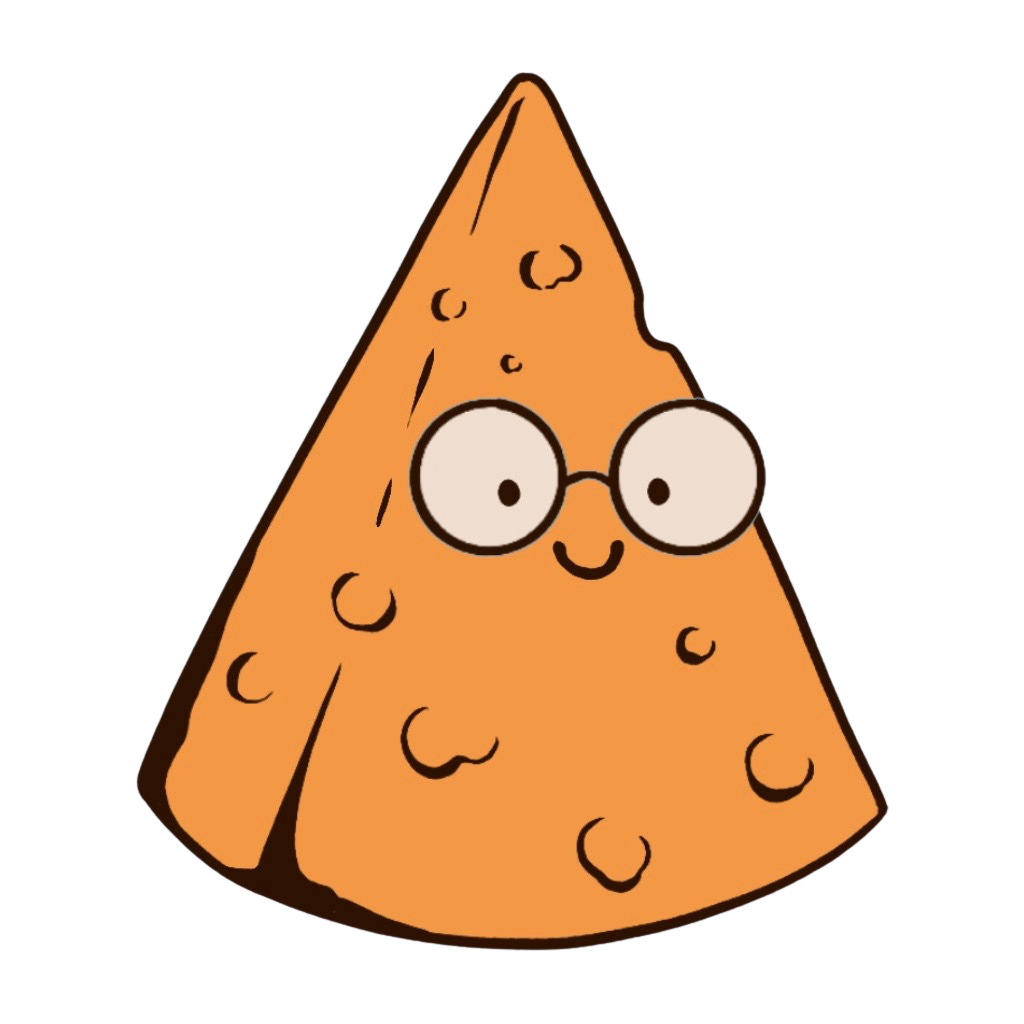
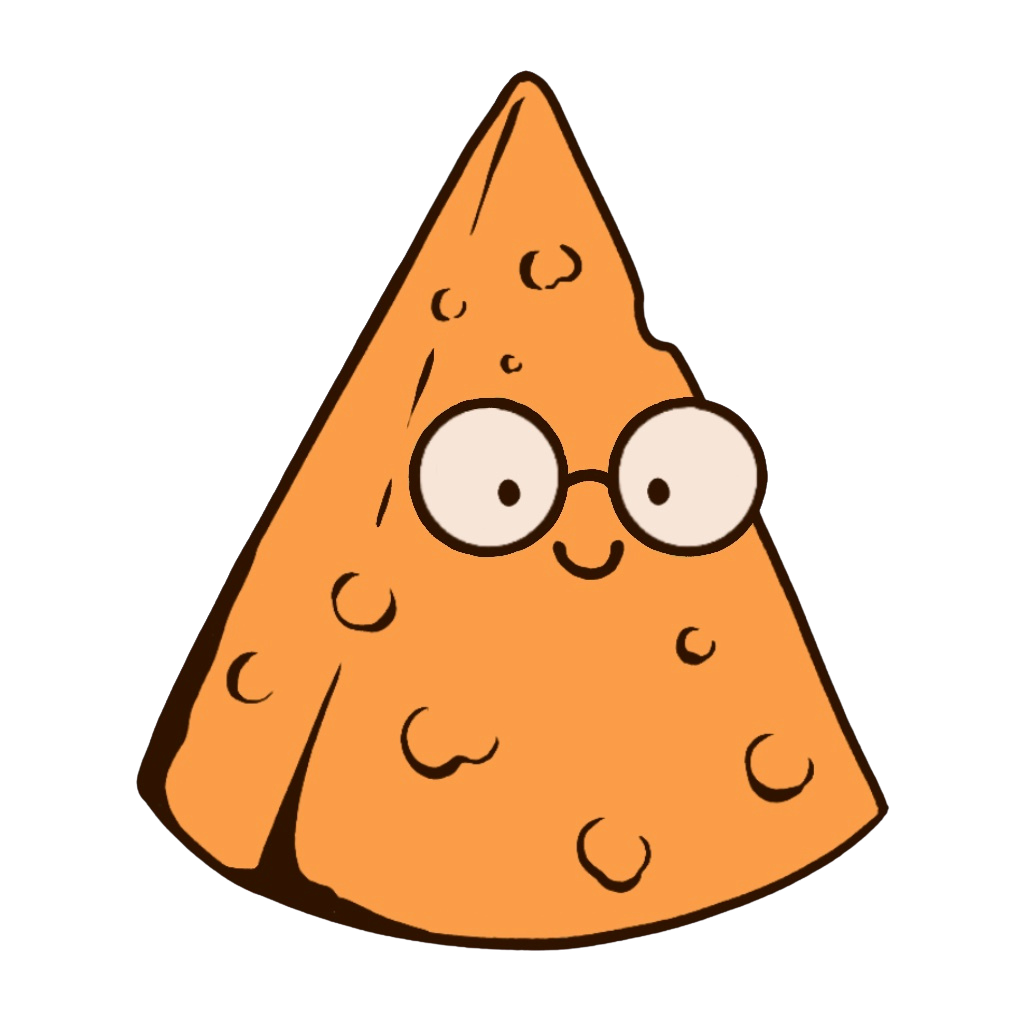
Update revised By the Whey artwork

diff --git a/docs/delete-account/index.html b/docs/delete-account/index.html
@@ -1,5 +1,5 @@
-<!doctype html><html lang="en"><head><meta charset="utf-8"><meta name="viewport" content="width=device-width,initial-scale=1"><meta name="description" content="Instructions for deleting a By the Whey account and associated data."><title>Delete Account — By the Whey</title><link rel="icon" href="../assets/by-the-whey-icon.png"><link rel="stylesheet" href="../assets/styles.css?v=20260819-brand-refresh"><script src="../assets/site.js" defer></script></head><body>
-<header class="site-header"><div class="shell nav"><a class="wordmark" href="/"><img class="wordmark-mark" src="../assets/by-the-whey-character.png" alt=""><span><strong>By the Whey</strong><small>Built by The Curd Nerd</small></span></a><button class="menu-toggle" type="button" aria-expanded="false" data-menu-toggle>Menu</button><nav class="nav-links" data-menu><a href="/privacy/">Privacy</a><a href="/terms/">Terms</a><a href="/guidelines/">Guidelines</a><a href="/support/">Support</a></nav></div></header>
+<!doctype html><html lang="en"><head><meta charset="utf-8"><meta name="viewport" content="width=device-width,initial-scale=1"><meta name="description" content="Instructions for deleting a By the Whey account and associated data."><title>Delete Account — By the Whey</title><link rel="icon" href="../assets/by-the-whey-icon.png?v=20260819-art-r2"><link rel="stylesheet" href="../assets/styles.css?v=20260819-brand-refresh"><script src="../assets/site.js" defer></script></head><body>
+<header class="site-header"><div class="shell nav"><a class="wordmark" href="/"><img class="wordmark-mark" src="../assets/by-the-whey-character.png?v=20260819-art-r2" alt=""><span><strong>By the Whey</strong><small>Built by The Curd Nerd</small></span></a><button class="menu-toggle" type="button" aria-expanded="false" data-menu-toggle>Menu</button><nav class="nav-links" data-menu><a href="/privacy/">Privacy</a><a href="/terms/">Terms</a><a href="/guidelines/">Guidelines</a><a href="/support/">Support</a></nav></div></header>
 <main><section class="legal-hero"><div class="shell"><p class="eyebrow">Account control</p><h1>Delete your account</h1><p class="updated">Permanent deletion of your By the Whey account and associated data</p></div></section><div class="shell legal-layout"><aside class="legal-aside"><strong>This action is permanent.</strong><p>Download or copy anything you want to keep before requesting deletion.</p></aside><article class="legal-content">
 <h2>Delete inside the app</h2><p>The fastest way to delete your account is inside By the Whey:</p><ol><li>Open <strong>Profile</strong>.</li><li>Choose <strong>Safety &amp; Legal</strong>.</li><li>Open the <strong>Safety</strong> tab.</li><li>Select <strong>Delete my account</strong> and confirm both prompts.</li></ol><p>Deletion begins immediately. If you used Sign in with Apple, the app also asks Apple to revoke its authorization.</p>
 <h2>If you cannot access the app</h2><div class="contact-card"><p>Email <a href="mailto:support@thecurdnerd.com?subject=By%20the%20Whey%20account%20deletion">support@thecurdnerd.com</a> from the email address connected to your account. Use the subject “By the Whey account deletion.” We will verify account ownership before deletion.</p></div>

diff --git a/docs/privacy/index.html b/docs/privacy/index.html
@@ -1,5 +1,5 @@
-<!doctype html><html lang="en"><head><meta charset="utf-8"><meta name="viewport" content="width=device-width,initial-scale=1"><meta name="description" content="Privacy Policy for the By the Whey app."><title>Privacy Policy — By the Whey</title><link rel="icon" href="../assets/by-the-whey-icon.png"><link rel="stylesheet" href="../assets/styles.css?v=20260819-brand-refresh"><script src="../assets/site.js" defer></script></head><body>
-<header class="site-header"><div class="shell nav"><a class="wordmark" href="/"><img class="wordmark-mark" src="../assets/by-the-whey-character.png" alt=""><span><strong>By the Whey</strong><small>Built by The Curd Nerd</small></span></a><button class="menu-toggle" type="button" aria-expanded="false" data-menu-toggle>Menu</button><nav class="nav-links" data-menu><a aria-current="page" href="/privacy/">Privacy</a><a href="/terms/">Terms</a><a href="/guidelines/">Guidelines</a><a href="/support/">Support</a></nav></div></header>
+<!doctype html><html lang="en"><head><meta charset="utf-8"><meta name="viewport" content="width=device-width,initial-scale=1"><meta name="description" content="Privacy Policy for the By the Whey app."><title>Privacy Policy — By the Whey</title><link rel="icon" href="../assets/by-the-whey-icon.png?v=20260819-art-r2"><link rel="stylesheet" href="../assets/styles.css?v=20260819-brand-refresh"><script src="../assets/site.js" defer></script></head><body>
+<header class="site-header"><div class="shell nav"><a class="wordmark" href="/"><img class="wordmark-mark" src="../assets/by-the-whey-character.png?v=20260819-art-r2" alt=""><span><strong>By the Whey</strong><small>Built by The Curd Nerd</small></span></a><button class="menu-toggle" type="button" aria-expanded="false" data-menu-toggle>Menu</button><nav class="nav-links" data-menu><a aria-current="page" href="/privacy/">Privacy</a><a href="/terms/">Terms</a><a href="/guidelines/">Guidelines</a><a href="/support/">Support</a></nav></div></header>
 <main><section class="legal-hero"><div class="shell"><p class="eyebrow">Safety &amp; legal</p><h1>Privacy Policy</h1><p class="updated">Effective August 9, 2026</p></div></section><div class="shell legal-layout"><aside class="legal-aside"><strong>Your privacy matters.</strong><p>This policy explains what By the Whey collects and how you can control it.</p></aside><article class="legal-content">
 <h2>Information we collect</h2><p>We collect account details you provide, such as your name, email address, handle, bio, location, and profile image. We also store content and activity you choose to create, including cheese tastings, ratings, notes, tasting locations, photos, follows, likes, comments, saved cheeses, reports, and blocks.</p>
 <h2>Authentication information</h2><p>You may sign in with email, Apple, or Google. Authentication providers may give us an account identifier, verified email address, and name according to the permissions you approve. Apple may provide your name only during the first authorization.</p>

diff --git a/docs/support/index.html b/docs/support/index.html
@@ -1,5 +1,5 @@
-<!doctype html><html lang="en"><head><meta charset="utf-8"><meta name="viewport" content="width=device-width,initial-scale=1"><meta name="description" content="Support for the By the Whey app."><title>Support — By the Whey</title><link rel="icon" href="../assets/by-the-whey-icon.png"><link rel="stylesheet" href="../assets/styles.css?v=20260819-brand-refresh"><script src="../assets/site.js" defer></script></head><body>
-<header class="site-header"><div class="shell nav"><a class="wordmark" href="/"><img class="wordmark-mark" src="../assets/by-the-whey-character.png" alt=""><span><strong>By the Whey</strong><small>Built by The Curd Nerd</small></span></a><button class="menu-toggle" type="button" aria-expanded="false" data-menu-toggle>Menu</button><nav class="nav-links" data-menu><a href="/privacy/">Privacy</a><a href="/terms/">Terms</a><a href="/guidelines/">Guidelines</a><a aria-current="page" href="/support/">Support</a></nav></div></header>
+<!doctype html><html lang="en"><head><meta charset="utf-8"><meta name="viewport" content="width=device-width,initial-scale=1"><meta name="description" content="Support for the By the Whey app."><title>Support — By the Whey</title><link rel="icon" href="../assets/by-the-whey-icon.png?v=20260819-art-r2"><link rel="stylesheet" href="../assets/styles.css?v=20260819-brand-refresh"><script src="../assets/site.js" defer></script></head><body>
+<header class="site-header"><div class="shell nav"><a class="wordmark" href="/"><img class="wordmark-mark" src="../assets/by-the-whey-character.png?v=20260819-art-r2" alt=""><span><strong>By the Whey</strong><small>Built by The Curd Nerd</small></span></a><button class="menu-toggle" type="button" aria-expanded="false" data-menu-toggle>Menu</button><nav class="nav-links" data-menu><a href="/privacy/">Privacy</a><a href="/terms/">Terms</a><a href="/guidelines/">Guidelines</a><a aria-current="page" href="/support/">Support</a></nav></div></header>
 <main><section class="legal-hero"><div class="shell"><p class="eyebrow">We can help</p><h1>Support</h1><p class="updated">Support for By the Whey beta testers</p></div></section><div class="shell legal-layout"><aside class="legal-aside"><strong>Tell us what happened.</strong><p>Your device, app version, and a screenshot can help us solve problems faster.</p></aside><article class="legal-content">
 <h2>Contact support</h2><div class="contact-card"><p>Email <a href="mailto:support@thecurdnerd.com?subject=By%20the%20Whey%20support">support@thecurdnerd.com</a>. Please include what you were doing, your device type, app version, and any error message.</p></div>
 <h2>Account access</h2><p>Use “Forgot password?” on the sign-in screen for an email account. Apple and Google accounts should use the matching sign-in option originally used to create the account.</p>

diff --git a/docs/terms/index.html b/docs/terms/index.html
@@ -1,5 +1,5 @@
-<!doctype html><html lang="en"><head><meta charset="utf-8"><meta name="viewport" content="width=device-width,initial-scale=1"><meta name="description" content="Terms of Use for the By the Whey app."><title>Terms of Use — By the Whey</title><link rel="icon" href="../assets/by-the-whey-icon.png"><link rel="stylesheet" href="../assets/styles.css?v=20260819-brand-refresh"><script src="../assets/site.js" defer></script></head><body>
-<header class="site-header"><div class="shell nav"><a class="wordmark" href="/"><img class="wordmark-mark" src="../assets/by-the-whey-character.png" alt=""><span><strong>By the Whey</strong><small>Built by The Curd Nerd</small></span></a><button class="menu-toggle" type="button" aria-expanded="false" data-menu-toggle>Menu</button><nav class="nav-links" data-menu><a href="/privacy/">Privacy</a><a aria-current="page" href="/terms/">Terms</a><a href="/guidelines/">Guidelines</a><a href="/support/">Support</a></nav></div></header>
+<!doctype html><html lang="en"><head><meta charset="utf-8"><meta name="viewport" content="width=device-width,initial-scale=1"><meta name="description" content="Terms of Use for the By the Whey app."><title>Terms of Use — By the Whey</title><link rel="icon" href="../assets/by-the-whey-icon.png?v=20260819-art-r2"><link rel="stylesheet" href="../assets/styles.css?v=20260819-brand-refresh"><script src="../assets/site.js" defer></script></head><body>
+<header class="site-header"><div class="shell nav"><a class="wordmark" href="/"><img class="wordmark-mark" src="../assets/by-the-whey-character.png?v=20260819-art-r2" alt=""><span><strong>By the Whey</strong><small>Built by The Curd Nerd</small></span></a><button class="menu-toggle" type="button" aria-expanded="false" data-menu-toggle>Menu</button><nav class="nav-links" data-menu><a href="/privacy/">Privacy</a><a aria-current="page" href="/terms/">Terms</a><a href="/guidelines/">Guidelines</a><a href="/support/">Support</a></nav></div></header>
 <main><section class="legal-hero"><div class="shell"><p class="eyebrow">Safety &amp; legal</p><h1>Terms of Use</h1><p class="updated">Effective August 9, 2026</p></div></section><div class="shell legal-layout"><aside class="legal-aside"><strong>The short version.</strong><p>Enjoy cheese, respect the community, and only share content you have the right to use.</p></aside><article class="legal-content">
 <h2>Acceptance</h2><p>By creating an account or using By the Whey, you agree to these Terms of Use and our <a href="/privacy/">Privacy Policy</a>. If you do not agree, do not use the service.</p>
 <h2>Using the service</h2><p>You must use the service lawfully, provide accurate account information, and protect access to your account. You are responsible for activity performed through your account.</p>

diff --git a/docs/guidelines/index.html b/docs/guidelines/index.html
@@ -1,5 +1,5 @@
-<!doctype html><html lang="en"><head><meta charset="utf-8"><meta name="viewport" content="width=device-width,initial-scale=1"><meta name="description" content="Community Guidelines for By the Whey."><title>Community Guidelines — By the Whey</title><link rel="icon" href="../assets/by-the-whey-icon.png"><link rel="stylesheet" href="../assets/styles.css?v=20260819-brand-refresh"><script src="../assets/site.js" defer></script></head><body>
-<header class="site-header"><div class="shell nav"><a class="wordmark" href="/"><img class="wordmark-mark" src="../assets/by-the-whey-character.png" alt=""><span><strong>By the Whey</strong><small>Built by The Curd Nerd</small></span></a><button class="menu-toggle" type="button" aria-expanded="false" data-menu-toggle>Menu</button><nav class="nav-links" data-menu><a href="/privacy/">Privacy</a><a href="/terms/">Terms</a><a aria-current="page" href="/guidelines/">Guidelines</a><a href="/support/">Support</a></nav></div></header>
+<!doctype html><html lang="en"><head><meta charset="utf-8"><meta name="viewport" content="width=device-width,initial-scale=1"><meta name="description" content="Community Guidelines for By the Whey."><title>Community Guidelines — By the Whey</title><link rel="icon" href="../assets/by-the-whey-icon.png?v=20260819-art-r2"><link rel="stylesheet" href="../assets/styles.css?v=20260819-brand-refresh"><script src="../assets/site.js" defer></script></head><body>
+<header class="site-header"><div class="shell nav"><a class="wordmark" href="/"><img class="wordmark-mark" src="../assets/by-the-whey-character.png?v=20260819-art-r2" alt=""><span><strong>By the Whey</strong><small>Built by The Curd Nerd</small></span></a><button class="menu-toggle" type="button" aria-expanded="false" data-menu-toggle>Menu</button><nav class="nav-links" data-menu><a href="/privacy/">Privacy</a><a href="/terms/">Terms</a><a aria-current="page" href="/guidelines/">Guidelines</a><a href="/support/">Support</a></nav></div></header>
 <main><section class="legal-hero"><div class="shell"><p class="eyebrow">The cheese table</p><h1>Community Guidelines</h1><p class="updated">Effective August 9, 2026</p></div></section><div class="shell legal-layout"><aside class="legal-aside"><strong>Make room at the table.</strong><p>Curiosity, generosity, and thoughtful disagreement make this community better.</p></aside><article class="legal-content">
 <h2>Be thoughtful</h2><p>Share useful cheese experiences and disagree without harassment, threats, personal attacks, stalking, or coordinated abuse.</p>
 <h2>Keep it relevant</h2><p>Posts should relate to cheese, tasting, producers, pairings, shops, events, education, or the cheese community. Repetitive promotion and spam are not allowed.</p>

diff --git a/docs/index.html b/docs/index.html
@@ -9,9 +9,9 @@
   <meta property="og:description" content="Taste, remember, and share exceptional cheese with people who get it.">
   <meta property="og:type" content="website">
   <meta property="og:url" content="https://bythe-whey.com/">
-  <meta property="og:image" content="https://bythe-whey.com/assets/by-the-whey-icon.png">
+  <meta property="og:image" content="https://bythe-whey.com/assets/by-the-whey-icon.png?v=20260819-art-r2">
   <title>By the Whey — A cheese journal and community</title>
-  <link rel="icon" href="assets/by-the-whey-icon.png">
+  <link rel="icon" href="assets/by-the-whey-icon.png?v=20260819-art-r2">
   <link rel="stylesheet" href="assets/styles.css?v=20260819-brand-refresh">
   <script src="assets/site.js" defer></script>
 </head>
@@ -19,7 +19,7 @@
   <header class="site-header">
     <div class="shell nav">
       <a class="wordmark" href="/" aria-label="By the Whey home">
-        <img class="wordmark-mark" src="assets/by-the-whey-character.png" alt="">
+        <img class="wordmark-mark" src="assets/by-the-whey-character.png?v=20260819-art-r2" alt="">
         <span><strong>By the Whey</strong><small>Built by The Curd Nerd</small></span>
       </a>
       <button class="menu-toggle" type="button" aria-expanded="false" data-menu-toggle>Menu</button>
@@ -47,7 +47,7 @@
           <p class="availability">Currently testing on iPhone and Android.</p>
         </div>
         <div class="art-card">
-          <img src="assets/by-the-whey-icon.png" alt="By the Whey cheese character artwork">
+          <img src="assets/by-the-whey-icon.png?v=20260819-art-r2" alt="By the Whey cheese character artwork">
         </div>
       </div>
     </section>
@@ -98,7 +98,7 @@
   <footer class="site-footer">
     <div class="shell">
       <div class="footer-grid">
-        <a class="wordmark" href="/"><img class="wordmark-mark" src="assets/by-the-whey-character.png" alt=""><span><strong>By the Whey</strong><small>Built by The Curd Nerd</small></span></a>
+        <a class="wordmark" href="/"><img class="wordmark-mark" src="assets/by-the-whey-character.png?v=20260819-art-r2" alt=""><span><strong>By the Whey</strong><small>Built by The Curd Nerd</small></span></a>
         <nav class="footer-links" aria-label="Legal and support"><a href="/manage/">Catalog Studio</a><a href="/privacy/">Privacy</a><a href="/terms/">Terms</a><a href="/guidelines/">Guidelines</a><a href="/support/">Support</a><a href="/delete-account/">Delete Account</a></nav>
       </div>
       <p class="copyright">© 2026 The Curd Nerd. By the Whey is currently in beta.</p>

diff --git a/docs/manage/index.html b/docs/manage/index.html
@@ -7,7 +7,7 @@
   <meta name="theme-color" content="#9ed6f9">
   <meta name="robots" content="noindex,nofollow">
   <title>Catalog Studio — By the Whey</title>
-  <link rel="icon" href="/assets/by-the-whey-icon.png">
+  <link rel="icon" href="/assets/by-the-whey-icon.png?v=20260819-art-r2">
   <link rel="stylesheet" href="/assets/styles.css?v=20260819-brand-refresh">
   <link rel="stylesheet" href="/manage/manage.css?v=20260819-brand-refresh">
   <script type="module" src="/manage/manage.js"></script>
@@ -16,7 +16,7 @@
   <header class="site-header">
     <div class="shell nav">
       <a class="wordmark" href="/" aria-label="By the Whey home">
-        <img class="wordmark-mark" src="/assets/by-the-whey-character.png" alt="">
+        <img class="wordmark-mark" src="/assets/by-the-whey-character.png?v=20260819-art-r2" alt="">
         <span><strong>By the Whey</strong><small>Catalog Studio</small></span>
       </a>
       <div class="studio-account" data-account hidden>
